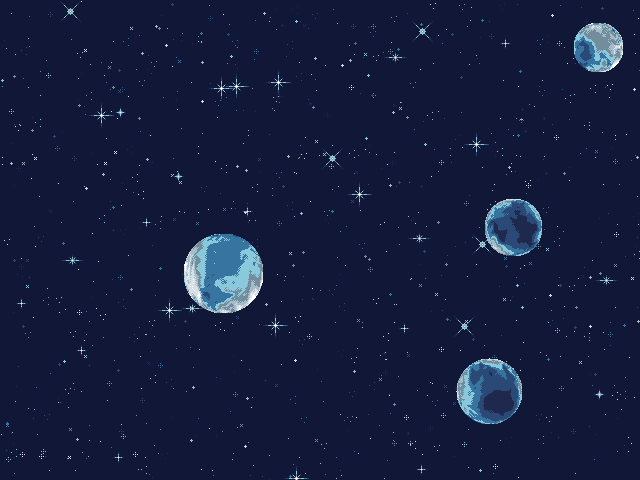
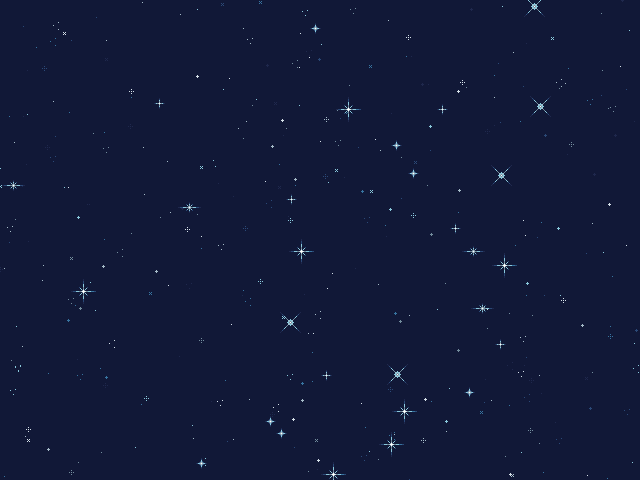
Paralax scrolling

diff --git a/src/scenes/Play.js b/src/scenes/Play.js
@@ -13,21 +13,23 @@ class Play extends Phaser.Scene {
         this.load.image("rocket", "./assets/rocket.png");
         this.load.image("spaceship", "./assets/spaceship.png");
         this.load.image("spaceBG", "./assets/Space Background.png");
+        this.load.image("planetBG", "./assets/Planet Background.png");
     }
 
     create() {
         // add background music
         this.bgm = this.sound.add("music", {volume: 0.1});
         this.bgm.play();
-        // place tile sprite
+        // add bakgrouond sprites
         this.starfield = this.add.tileSprite(0, 0, 640, 480, "spaceBG").setOrigin(0,0);
+        this.planets = this.add.tileSprite(0, 0, 640, 480, "planetBG").setOrigin(0,0);
         // green UI bg
-        this.add.rectangle(0, borderUISize + borderPadding, game.config.width, borderUISize * 2, 0x00FF00).setOrigin(0,0);
-        // white bars
-        this.add.rectangle(0, 0, game.config.width, borderUISize, 0xFFFFFF).setOrigin(0,0);
-        this.add.rectangle(0, game.config.height - borderUISize, game.config.width, borderUISize, 0xFFFFFF).setOrigin(0,0);
-        this.add.rectangle(0, 0, borderUISize, game.config.height, 0xFFFFFF).setOrigin(0,0);
-        this.add.rectangle(game.config.width - borderUISize, 0, borderUISize, game.config.height, 0xFFFFFF).setOrigin(0,0);
+        this.add.rectangle(0, borderUISize + borderPadding, game.config.width, borderUISize * 2 - 10, 0x210B3B).setOrigin(0,0);
+        // black bars
+        this.add.rectangle(0, 0, game.config.width, borderUISize, 0x000).setOrigin(0,0);
+        this.add.rectangle(0, game.config.height - borderUISize, game.config.width, borderUISize, 0x000).setOrigin(0,0);
+        this.add.rectangle(0, 0, borderUISize, game.config.height, 0x000).setOrigin(0,0);
+        this.add.rectangle(game.config.width - borderUISize, 0, borderUISize, game.config.height, 0x000).setOrigin(0,0);
         // add rocket (p1)
         this.p1Rocket = new Rocket(this, game.config.width/2, game.config.height - borderUISize - borderPadding, "rocket").setOrigin(0.5,0);
         // add spaceschips
@@ -141,6 +143,7 @@ class Play extends Phaser.Scene {
         }
         // background scroll
         this.starfield.tilePositionX -= 1;
+        this.planets.tilePositionX -= 1.3;
         // move sprites
         if(!this.gameOver){
             this.p1Rocket.update();

diff --git a/src/main.js b/src/main.js
@@ -1,27 +1,28 @@
 /*
 Name: David Amaya
-Mod title: Rocket Patrol 2
+Mod title: Rocket Patrol: Galaxy
 Time working on project: 3 hours, 20 mins
 
 Mod List:
-    High Score tracker: 5 points
+    5 pts: High Score tracker
         implemented for both easy and expert mode
-    FIRE UI(from original game): 5 points
-    Movement after while firing: 5 points
-    Randomized each spaceship movement direction at the start of each play: 5 points
-    Added background music: 5 points
+    5 pts: FIRE UI(from original game)
+    5 pts: Movement after while firing
+    5 pts: Randomized each spaceship movement direction at the start of each play
+    5 pts: Added background music
         bgm by Pagtrick de Arteaga from https://patrickdearteaga.com/arcade-music/
-    Added new background image: 5 points
+    5 pts: Added new background image
         Using "space background generator" at https://deep-fold.itch.io/space-background-generator
-    Added new animated sprite for ships: 10 points
+    10 pts: Added new animated sprite for ships
         https://ansimuz.itch.io/spaceship-shooter-environment
         upscaled to 200% using https://lospec.com/pixel-art-scaler/
-    Added new faster spaceship subclass: 15 points
-    Added 4 new explosion sounds: 10 points
-        https://www.shockwave-sound.com/free-sound-effects/explosion-sounds
+    15 pts: Added new faster spaceship subclass
+    10 pts: Added 4 new explosion sounds
+        https://mixkit.co/free-sound-effects/explosion/
         https://freesound.org/people/MusicLegends/sounds/344303/
         https://freesound.org/people/kutejnikov/sounds/522209/
         https://freesound.org/people/alphatrooper18/sounds/362423/
+    10 pts: Paralax scrolling for background
 */
 
 let config = {
